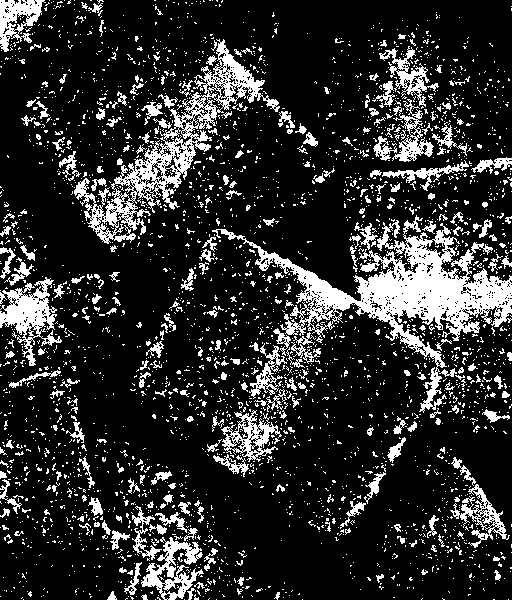
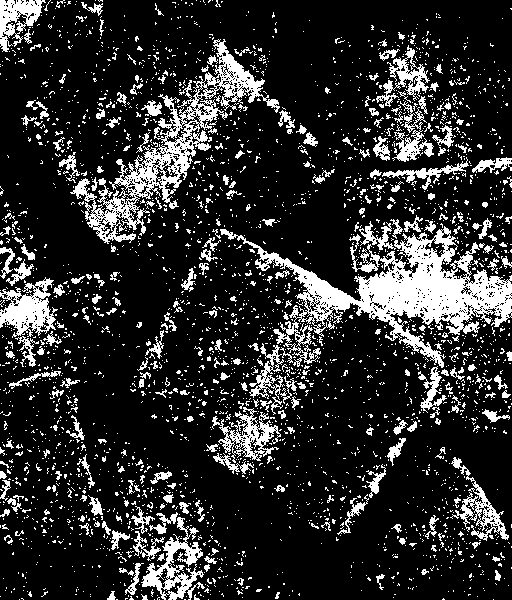
i

diff --git a/code/matlab/l0_EAP_auto/eap.m b/code/matlab/l0_EAP_auto/eap.m
@@ -1,0 +1,25 @@
+function output = eap(imgr,u,func)
+img = double(imgr);
+[height, width, ~]=size(img); 
+mask = rand(height, width);
+mask(mask < 0.5) = 0;
+mask(mask > 0) = 255;
+eps_weight = 1.0;
+for k=1:5
+    disp(k);
+    output=func(img, repmat(mask, [1, 1, 3]));
+    imwrite(mask, 'mask.png');
+    imwrite(output, 'output.png');
+    value = sum((output - img).^2,3);
+    weight = sum((output - imboxfilt(output,3)).^2,3);
+    knapsack = value./(weight + eps_weight);
+    thre = sort(knapsack(:));
+    thre = thre(int64(double(height*width)*(1.0 - double(k) * u / 5.0)));
+    knapsack = knapsack./thre;
+    mask = ones(height, width);
+    alpha = double(5 - k)./4.0;
+    mask(rand(height, width).*alpha +1.0-alpha<knapsack) = 255;
+    mask(mask < 255) = 0;
+end
+end
+

diff --git a/code/matlab/rtv_EAP_auto/tsmooth.m b/code/matlab/rtv_EAP_auto/tsmooth.m
@@ -65,8 +65,6 @@ function S = tsmooth(I,mask,lambda,sigma,sharpness,maxIter)
         Mw = Mw + 1e-5;
         I = I.*M + oI.*(1.0-M);
     end
-    I(I<0)=0;
-    I(I>255)=255;
     I = im2double(uint8(I));
     x = I;
     sigma_iter = sigma;

diff --git a/code/matlab/rtv_EAP_human/tsmooth.m b/code/matlab/rtv_EAP_human/tsmooth.m
@@ -65,8 +65,6 @@ function S = tsmooth(I,mask,lambda,sigma,sharpness,maxIter)
         Mw = Mw + 1e-5;
         I = I.*M + oI.*(1.0-M);
     end
-    I(I<0)=0;
-    I(I>255)=255;
     I = im2double(uint8(I));
     x = I;
     sigma_iter = sigma;

diff --git a/code/matlab/l0_EAP_auto/run.m b/code/matlab/l0_EAP_auto/run.m
@@ -1,0 +1,3 @@
+img=imread('input.png');
+output=eap(img, 0.1, @(a, b)L0Smoothing(a,b,0.01));
+imwrite(output, 'output.png');
